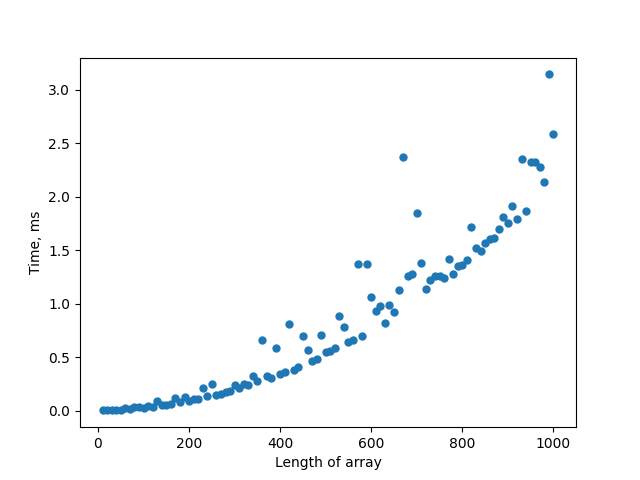
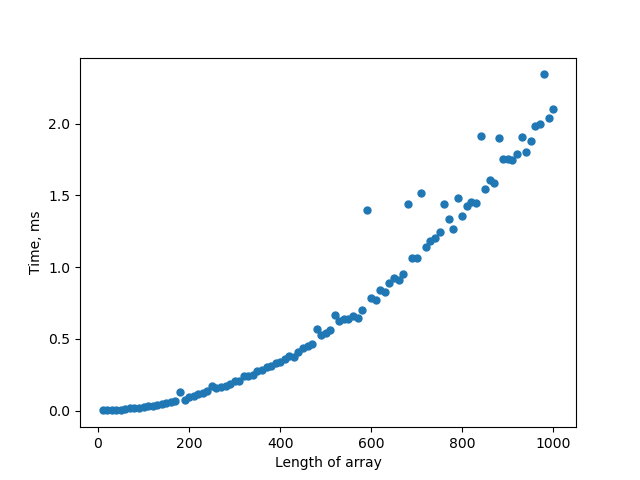
new plots and heapsort added

diff --git a/HeapSort/main.cpp b/HeapSort/main.cpp
@@ -1,0 +1,83 @@
+#include <iostream>
+#include <fstream>
+#include <vector>
+#include <cmath>
+#include <chrono>
+#include <iomanip>
+
+using namespace std;
+
+void sink(vector<int> &arr, int ind, int m)
+{
+    int big, l, r;
+
+    while(ind < m)
+    {
+        big = ind;
+        l = 2*ind + 1;
+        r = l + 1;
+
+        if (l < m && arr[l] > arr[big])
+            big = l;
+        if (r < m && arr[r] > arr[big])
+            big = r;
+        if (big == ind) return;
+        swap(arr[ind], arr[big]);
+        ind = big;
+    }
+}
+
+void build_heap(vector<int> &arr)
+{
+    int ind = arr.size()/2 - 1;
+    
+    while (ind >= 0)
+    {
+        sink(arr, ind, arr.size());
+        ind--;
+    }
+}
+
+void heapSort(vector<int> &arr)
+{
+    build_heap(arr);
+
+    int end = arr.size() - 1;
+
+    while (end >= 0)
+    {
+        swap(arr[0], arr[end]);
+        sink(arr, 0, end);
+        end--;
+    }
+}
+
+int main(int argc, char **argv)
+{
+    if (argc < 3) return -1;
+
+    ifstream inp(argv[1]);
+    vector<int> vec;
+
+    int current_number = 0;
+    while (inp >> current_number){
+        vec.push_back(current_number);
+    }
+    inp.close();
+
+    auto start = chrono::steady_clock::now();
+    heapSort(vec);
+    auto end = chrono::steady_clock::now();
+
+    auto diff = end - start;
+
+    ofstream out (string("output\\") + argv[2] + ".txt");
+
+    out << chrono::duration <double, milli> (diff).count() << "\n";
+    for(int i = 0; i < vec.size(); i++){
+        out << vec[i] << " " ;
+    }
+    out.close();
+
+    return 0;
+}

diff --git a/HeapSort/test_script.py b/HeapSort/test_script.py
@@ -51,7 +51,7 @@ if flag:
 arr = []
 
 command = argv[1]
-if command.split('.')[-1] == 'cpp' or command.split('.')[-1] == 'c':
+if command.split('.')[-1] == 'cpp':
     print('COMPILING...')
     result = subprocess.run(['g++', command, '-o', command[:-3]+'o'], stdout=subprocess.PIPE)
     print("Return code:", result.returncode)

diff --git a/ShellSort/README.md b/ShellSort/README.md
@@ -1,4 +1,4 @@
 # Shell sort
 Plot built on 100 tests  
-Every test has an array of 10*(test number) randomly generated numbers from -10^5 to 10^5
+Every test has an array of 10*(test number) randomly generated numbers in range from -10^5 to 10^5
 ![Plot](plot.png)

diff --git a/HeapSort/README.md b/HeapSort/README.md
@@ -1,4 +1,4 @@
-# Quick sort
+# Heap sort
 Plot built on 100 tests  
 Every test has an array of 10*(test number) randomly generated numbers in range from -10^5 to 10^5
 ![Plot](plot.png)
